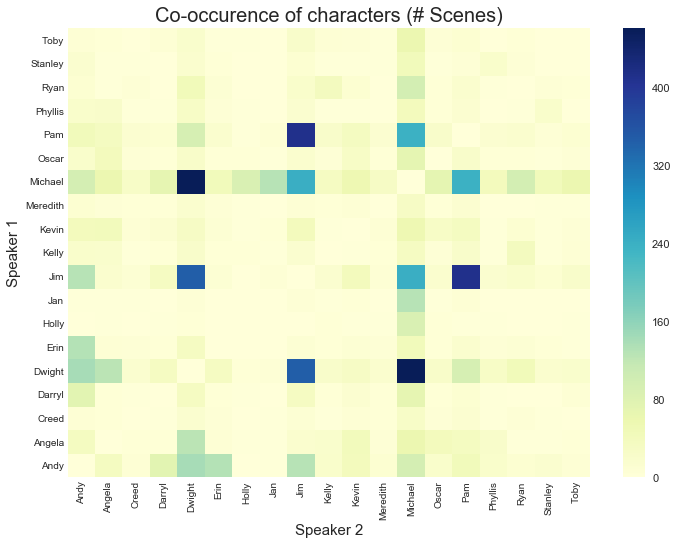
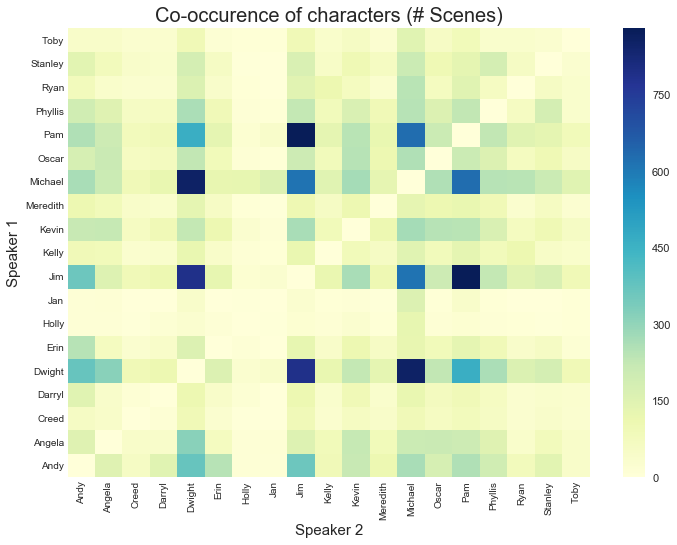
Updated ReadMe with Cooccurence network.

diff --git a/README.md b/README.md
@@ -35,11 +35,15 @@ Sentiment analysis was done on each line to identify if it was positive, negativ
 It is phenomenal that almost 100% of Michael's lines were positive. No wonder inspite of his constant bickering, he never really comes across as annoying. It is also not surprising that the grumpy and disgruntled Stanley has almost the highlest negative sentiment lines. He comes close second to Meredith, whose alcohol problem and pathetic work performance might be resulting into her high negative sentiment.
 
 ### Which characters co-occur the most in scenes?
-Identified the top 2 characters in each scene for ease of plotting. Below heatmap displays number of scenes in which the key characters occur together.
+Below heatmap is a representation of number of scenes in which the key characters occur together.
 
 ![Co-occurence](/results/co-occurence.png)
 
 It actually comes as a surprise that Michael and Dwight have the most scenes together. I always thought it was Jim and Dwight or Jim and Pam. 
+
+The network below is another way of looking at the co-occurence. The size of nodes represent total number of scenes for that character, while the width of edge represent the number of scenes in which the characters co-occur
+
+![Co-occurence network] (/results/cooccur_network.png)
 
 ### What are the key topics underlying the lines of characters across all episodes (Topic Modeling using LDA)
 This was done to understand the key abstract topics for each character. LDA algorithm gives the top words in each topic that ideally should describe that topic. Below table displays the key words in top 5 topics for the key characters. Note that this is not the full table with all key characters
